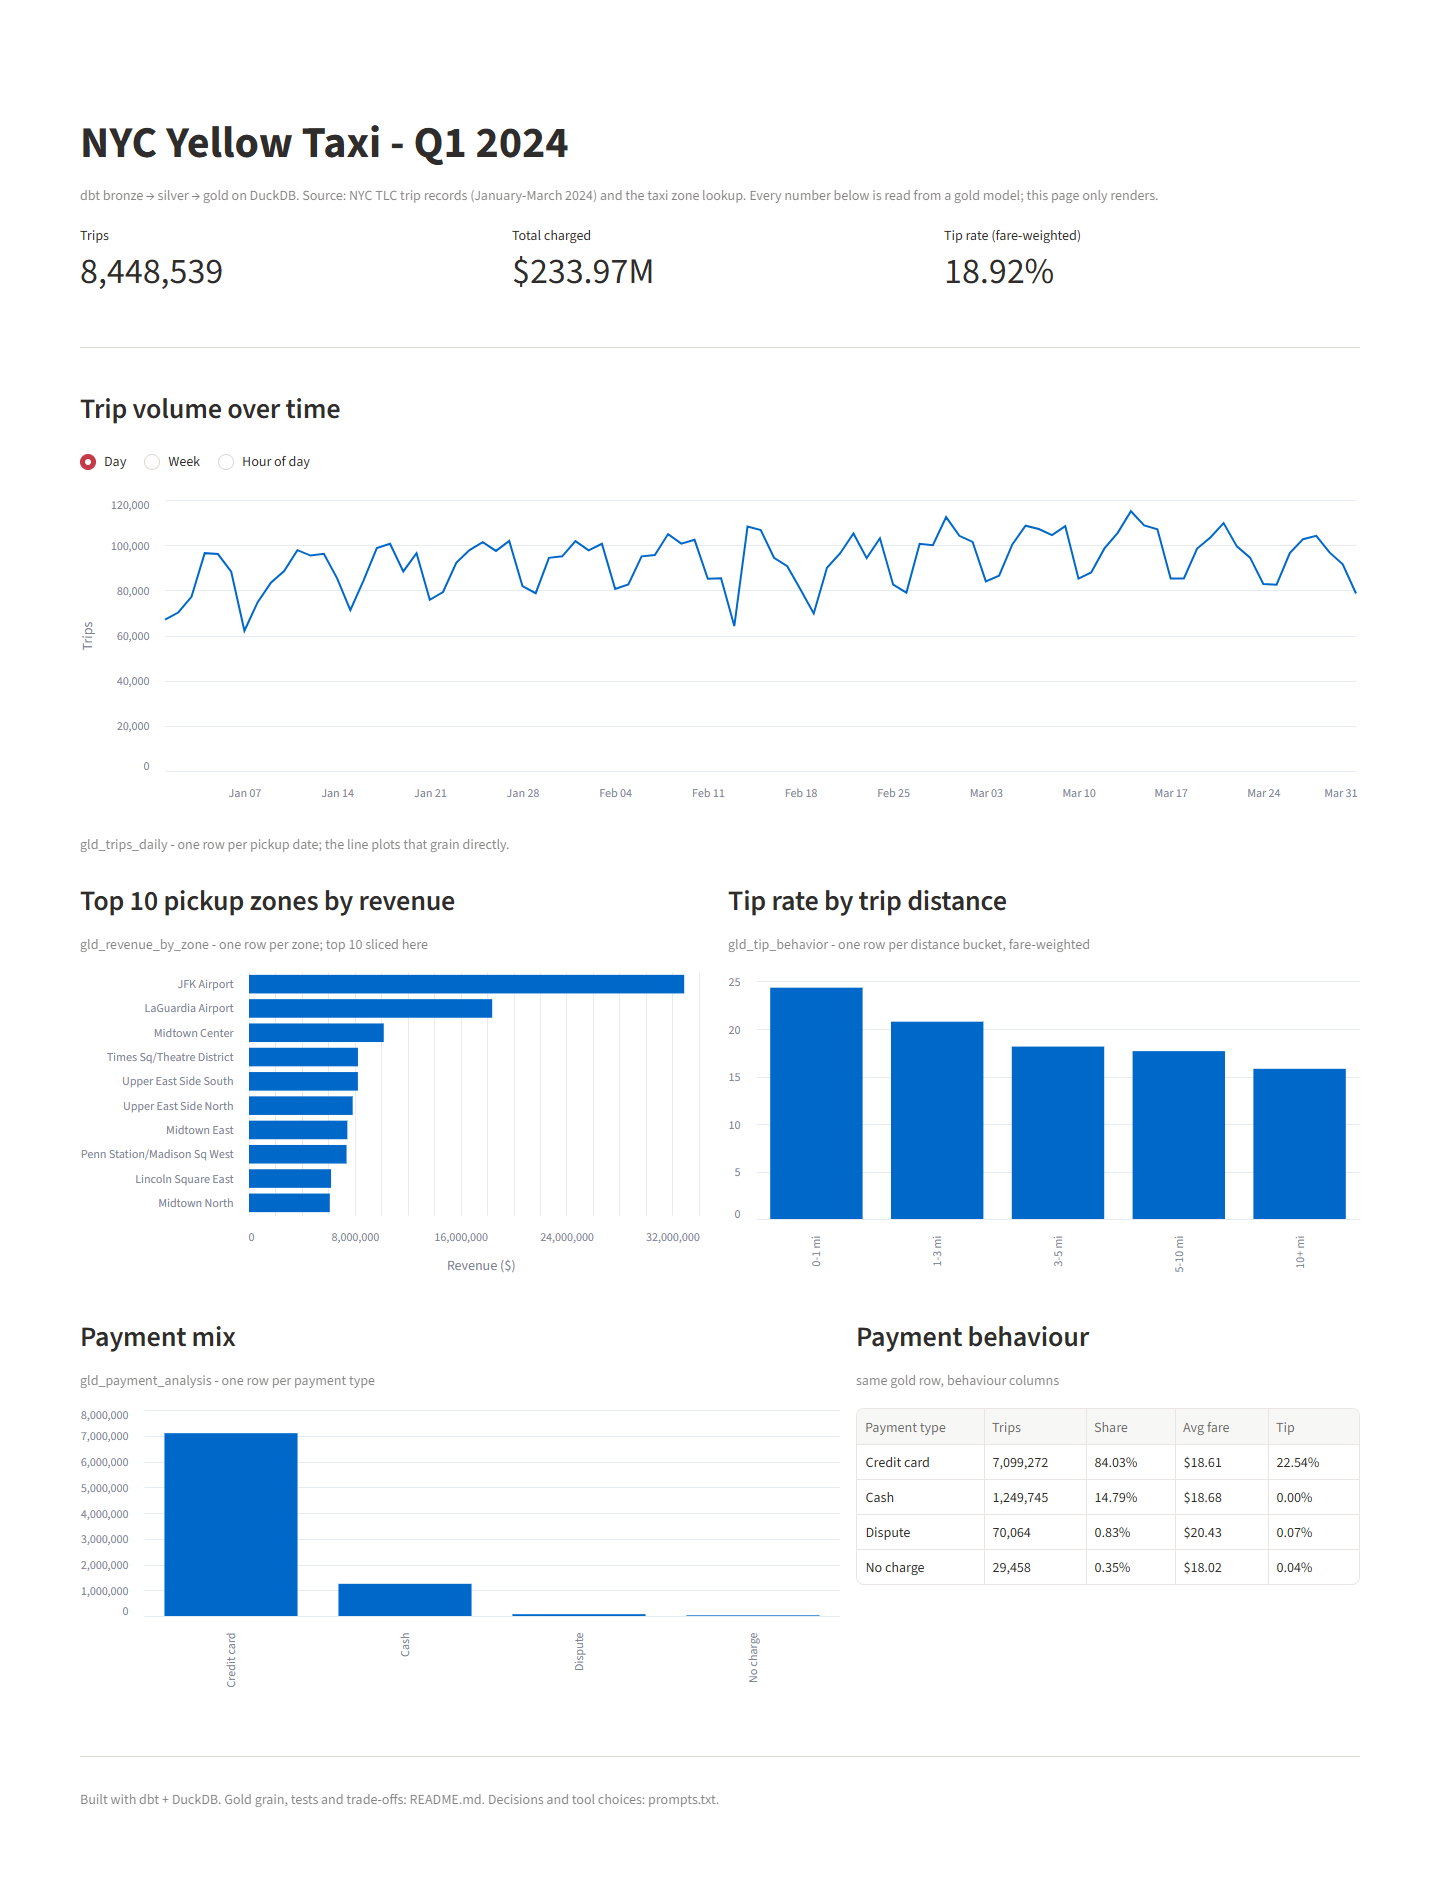
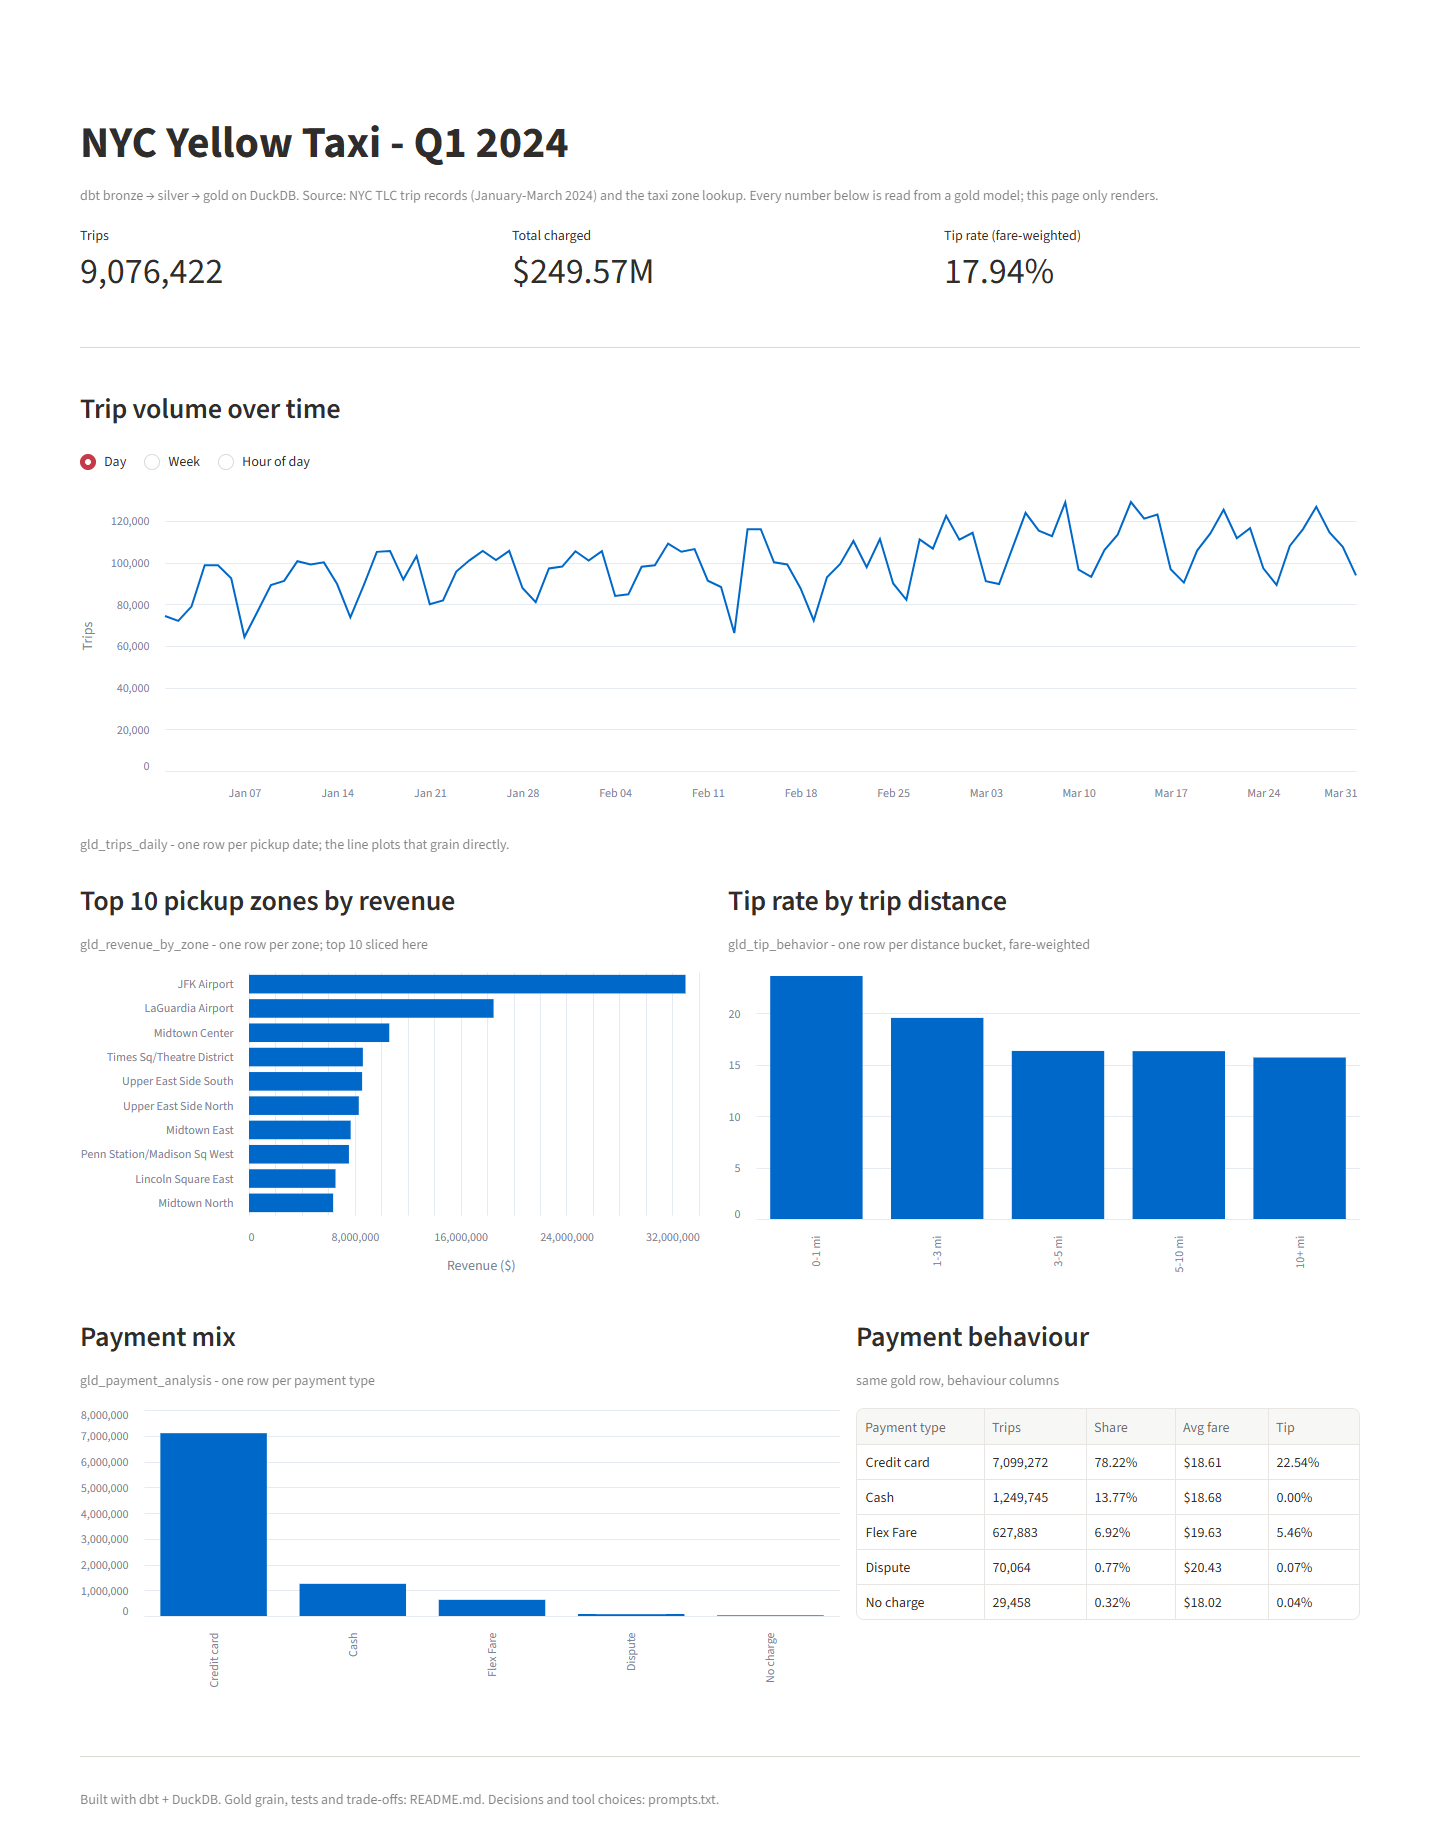
fix: keep Flex Fare rows (payment_type 0) and document them

diff --git a/README.md b/README.md
@@ -82,7 +82,7 @@ cannot be served from a broken table.
 
 ## Trade-offs
 
-- **One quarter, pinned.** January-March 2024: 153 MB of parquet, 8.45 M trips
+- **One quarter, pinned.** January-March 2024: 153 MB of parquet, 9.08 M trips
   after cleaning. A quarter is the smallest span where the Week toggle is a
   real trend (13 points) rather than four boundaries; multi-year would need
   incremental models, and the take-home grades reasoning, not volume.
@@ -90,9 +90,11 @@ cannot be served from a broken table.
   `--vars "row_limit: 1000000"` for a sub-minute rebuild on a weak machine.
   A cap makes counts sample-sized, so the default favours correctness.
 - **Silver exclusions are opinionated.** Duration 1-180 min, distance
-  0.1-100 mi, fare >= 0, passengers 1-6, pickup inside the quarter. They keep
-  88.4% of bronze rows - GPS gaps, metered corrections, driver typos - and every
-  view inherits that cut.
+  0.1-100 mi, fare >= 0, passengers 1-6 with null allowed, pickup inside the
+  quarter. Null is kept on purpose: TLC's Flex Fare rows (payment_type 0) carry no
+  passenger count, and dropping them would erase a payment type the brief asks us
+  to analyse. The bounds keep 95.0% of bronze rows - GPS gaps, metered corrections,
+  driver typos - and every view inherits that cut.
 - **Three grains for one chart.** Daily, weekly and hour-of-day are separate
   gold tables, so each grain is testable and the app only picks a table. The
   cost is three scans of silver and three models to keep; the alternative is a
@@ -100,7 +102,8 @@ cannot be served from a broken table.
   blurs the grain the brief asks to define.
 - **Cash trips show no tip.** The TLC records tips on card payments only, so
   the payment table shows 22.54% for cards and 0.00% for cash, and any tip
-  conclusion is a statement about card trips, not all trips.
+  conclusion is a statement about card trips, not all trips. Flex Fare reports
+  5.46%, far below cards, so it is never pooled into the card rate.
 - **Dedupe key is heuristic.** Same vendor, timestamps, zones and total is
   duplicate-shaped; a shared trip would be dropped with it.
 - **DuckDB file, not a warehouse.** Fast to clone, no credentials, no hosting -
@@ -142,10 +145,10 @@ cannot be served from a broken table.
 
 ## Verified on this machine
 
-- `dbt build` - 57/57 pass (11 models, 46 tests), 9.6 s on 9,554,778 bronze rows.
-- Silver keeps 8,448,539 rows (88.4%); every gold row sums from that grain.
+- `dbt build` - 57/57 pass (11 models, 46 tests), 11.3 s on 9,554,778 bronze rows.
+- Silver keeps 9,076,422 rows (95.0%); every gold row sums from that grain.
 - Streamlit `AppTest` - 0 exceptions, 4 charts, 1 table, grain selector with
-  three options; metrics 8,448,539 trips / $233.97M / 18.92% tip.
+  three options; metrics 9,076,422 trips / $249.57M / 17.94% tip.
 - `screenshots/dashboard.png` - captured from the running app at 1440 px.
 
 ## Repo layout

diff --git a/LOOM.md b/LOOM.md
@@ -6,14 +6,14 @@ All figures below are the verified Q1 2024 numbers.
 
 ## 0:00 - What this is (20 s)
 
-> This is a four-view dashboard over 8.4 million NYC yellow taxi trips from
+> This is a four-view dashboard over 9.1 million NYC yellow taxi trips from
 > January to March 2024, built as a dbt project on DuckDB. Bronze, silver and
 > gold layers, forty-six data tests, and every number on screen comes from one
 > gold table - the app only renders.
 
 ## 0:20 - Dashboard tour (55 s)
 
-Read the KPI strip: 8,448,539 trips, $233.97M charged, 18.92% fare-weighted tip.
+Read the KPI strip: 9,076,422 trips, $249.57M charged, 17.94% fare-weighted tip.
 
 > The main chart answers "when is demand high", and the brief asked for a
 > day/week/hour grain. There are three gold models - one row per day, per ISO
@@ -29,8 +29,9 @@ Scroll to zones, tips, payment mix and the payment behaviour table.
 
 > Top zones are revenue-sorted, and the top-10 slice lives in the app so the
 > model keeps a total-per-zone grain. The tip chart is fare-weighted. Payments
-> show both mix and behaviour: card is 84% of trips with a 22.54% tip rate,
-> cash is 15% with zero, because the TLC records no cash tips.
+> show both mix and behaviour: card is 78% of trips with a 22.54% tip rate, cash
+> is 14% with zero, because the TLC records no cash tips, and Flex Fare - code 0
+> in the TLC dictionary - is 7% of trips at 5.46%.
 
 ## 1:15 - The build is the gate (40 s)
 
@@ -39,7 +40,7 @@ Terminal at repo root:
     cd dbt_project
     dbt build --profiles-dir .
 
-> Eleven models and 46 tests in about nine seconds over 9.5 million bronze
+> Eleven models and 46 tests in about eleven seconds over 9.5 million bronze
 > rows. dbt counts each item, so the run ends at 57 of 57. A failing test stops
 > the build, so the dashboard cannot be served from a broken table.
 
@@ -57,8 +58,8 @@ Open `models/silver/slv_trips.sql`.
 >
 > Silver is the only place cleaning happens: casts, the bounds - duration 1 to
 > 180 minutes, distance 0.1 to 100 miles, non-negative fares, 1 to 6 passengers
-> - the pinned quarter, de-duplication, then the zone label join. It keeps 88.4%
-> of bronze.
+> with null allowed for Flex Fare - the pinned quarter, de-duplication, then the
+> zone label join. It keeps 95.0% of bronze.
 
 ## 2:50 - Trace three numbers (50 s)
 
